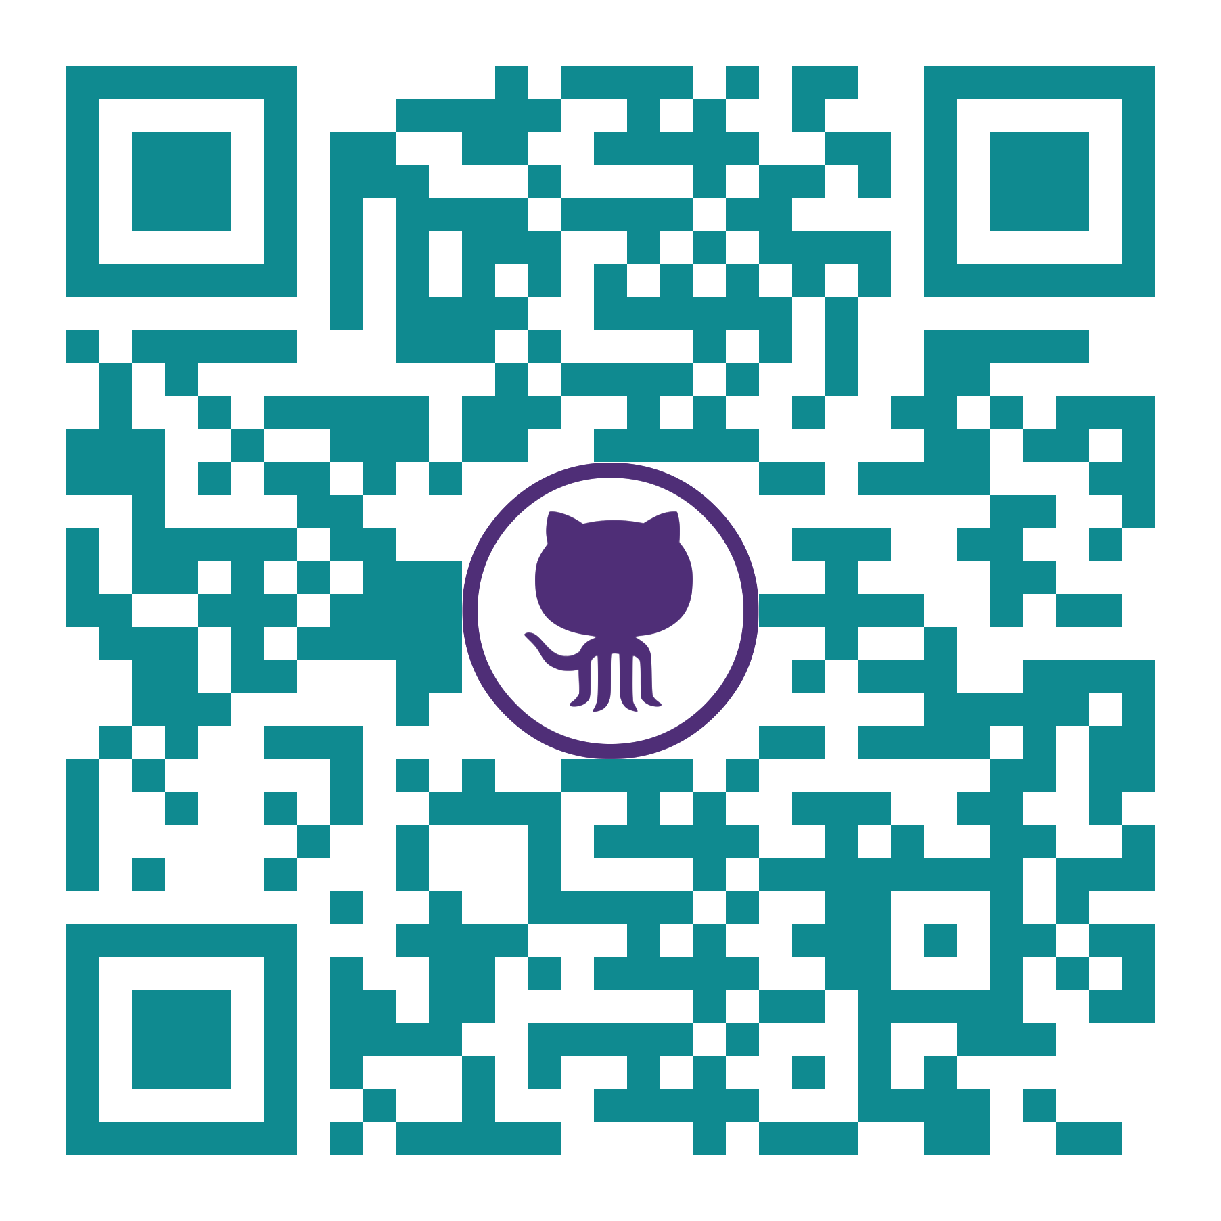
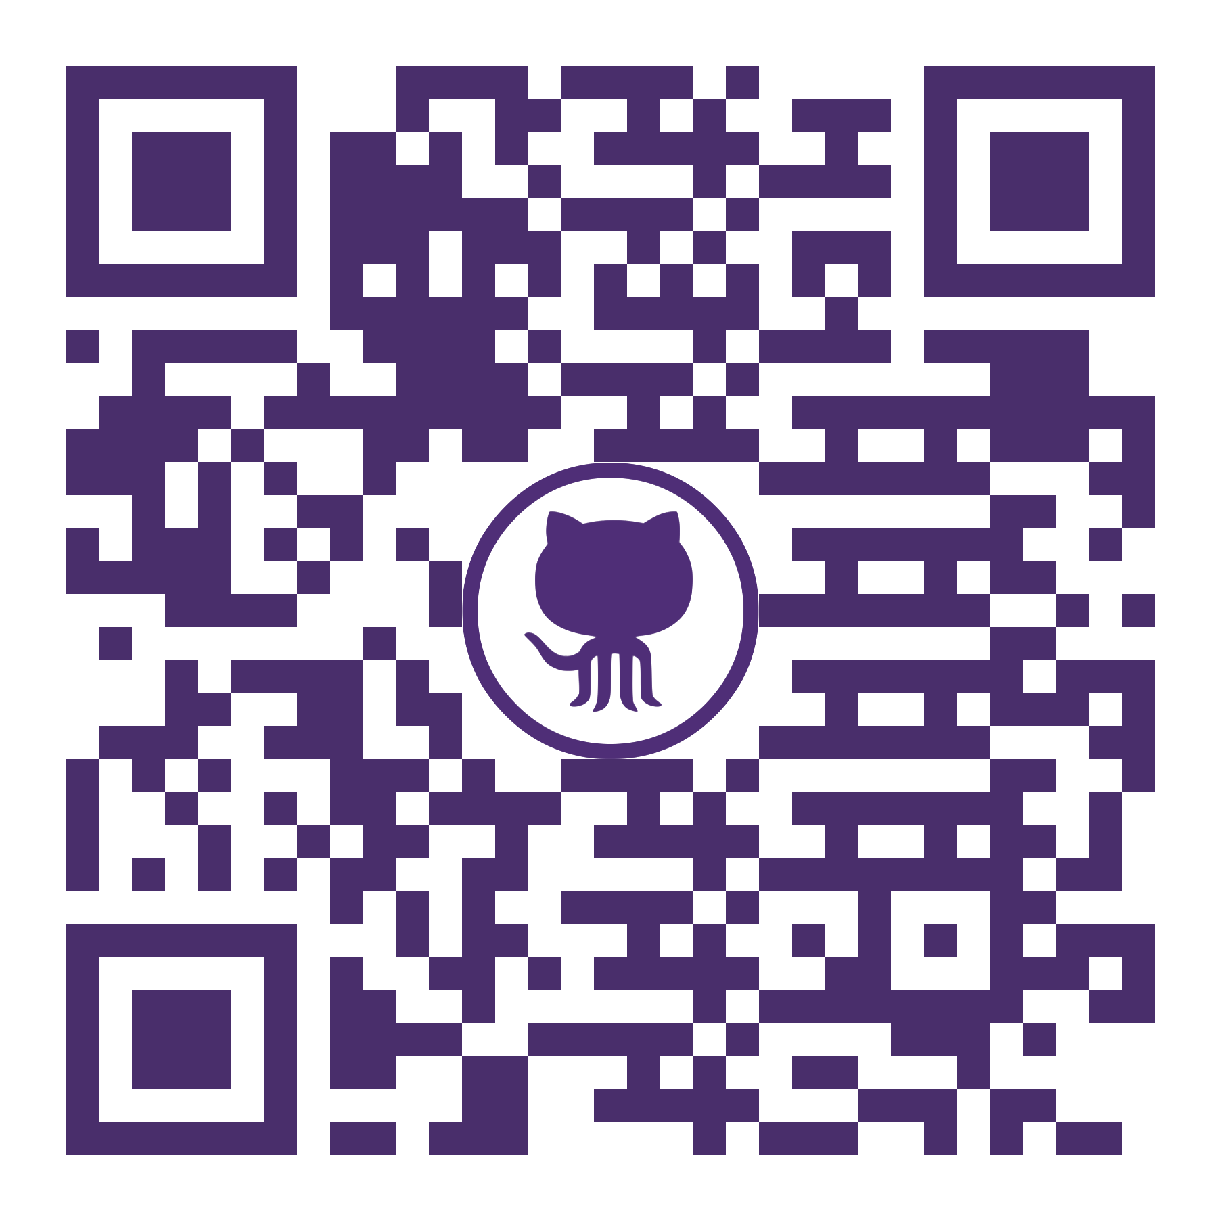
Bug fixes

diff --git a/qrCodeCreator/QRGenerator/QR.py b/qrCodeCreator/QRGenerator/QR.py
@@ -81,7 +81,7 @@ class QR:
         return word[:pos] + rep + word[pos + 1:]
 
     #Generate QR Code
-    def generate(self, encodingMode, info, imagePrompt = "N", image = "", color = "000000"):
+    def generate(self, encodingMode, info, imagePrompt = "N", image = "", color = "0F0F0F"):
 
         #Checks to make sure of valid hexidecimal value
         isHex = True
@@ -520,17 +520,19 @@ class QR:
         for x in range(2, 35):
             for y in range(2, 35):
                 outputQRCode[y, x] = QRCode[y - 2][x - 2]
-
+                
         #Cut out middle of QR Code to insert image
-        for x in range(0, 11):
-            for y in range(0, 11):
-                if (x != 0) and (x != 10) and (y != 0) and (y != 10):
-                    outputQRCode[y + 13, x + 13] = [255, 255, 255]
+        if self.imagePrompt in ('Y', 'y'):
+            for x in range(0, 11):
+                for y in range(0, 11):
+                    if (x != 0) and (x != 10) and (y != 0) and (y != 10):
+                        outputQRCode[y + 13, x + 13] = [255, 255, 255]
 
         #Output array as png
         QRCode = Image.fromarray(outputQRCode, "RGB")
         QRCode = QRCode.resize((1221, 1221))
-        QRCode.paste(image, (462, 462, 759, 759), image)
+        if self.imagePrompt in ('Y', 'y'):
+            QRCode.paste(image, (462, 462, 759, 759), image)
         QRCode.save("generatedQRCode.png")
 
     def isBetween(num, x1, x2):
@@ -641,6 +643,3 @@ class QR:
 
         #Returns total score of the mask
         return score
-
-
-QR().generate("B", "this is a test", "Y", "Github.png", color = "0f8a90")

diff --git a/qrCodeCreator/README.md b/qrCodeCreator/README.md
@@ -6,9 +6,14 @@ This application is used to generate version 4 QR codes with error correction le
 
 Keep all files in same directory. If you would like to add an image to the QR Code, you must add an image in the same directory as well.
 
-To run the application:
+Make sure to include the QR class like so:
+```python
+from QR import QR
 ```
-python3 qrCode.py
+
+To generate a QR code simply supply the generate function with its necessary parameters. Use B for byte encoding and A for alphanumeric encoding:
+```python
+QR().generate('b', 'hello, world!', 'y', 'github.png', '492E6B')
 ```
 
 ### Prerequisites
